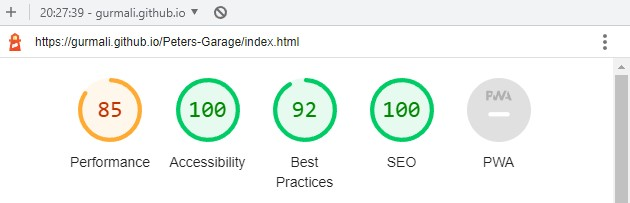
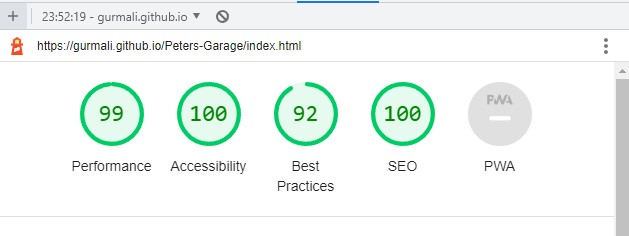
Make changes to the testing section of README

diff --git a/assets/css/style.css b/assets/css/style.css
@@ -109,13 +109,14 @@ a:hover {
 }
 
 #about-pictures {
-    width: 120%;
+    width: 80%;
     margin: auto;
 }
 
 #picture1-div {
     display: inline-block;
     width: 300px;
+    margin: auto;
 }
 
 #man-in-garage {

diff --git a/README.md b/README.md
@@ -112,7 +112,7 @@ __Footer Section__
 
   - I have tested and confirmed that the accessibility score is good by running it through Lighthouse in Dev-tools.
 
-  - The performance score however is a bit on the low side.
+  - The performance score was a bit low to begin with but after some cleaning up of the code it looks alot better.
 
 <img src="assets/images/lighthouse.jpg">
 
